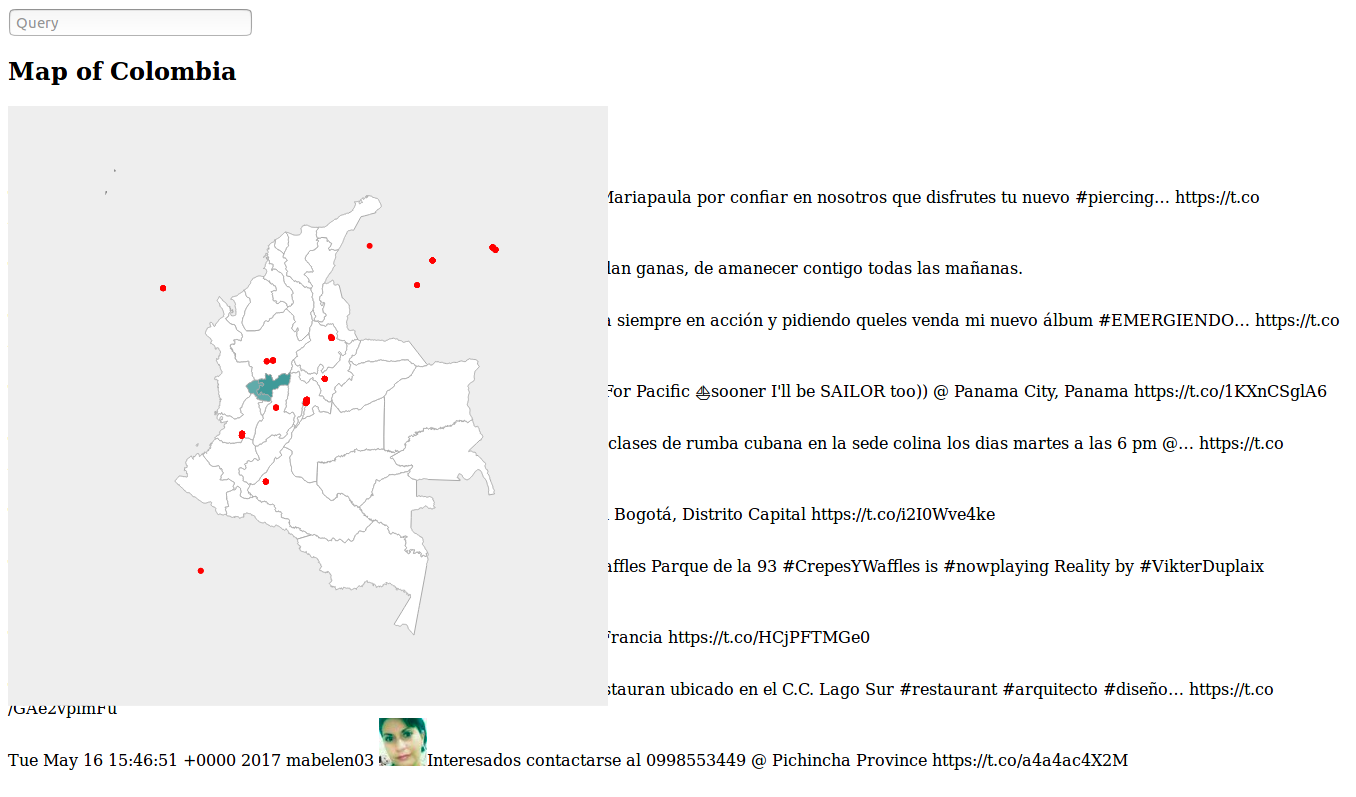
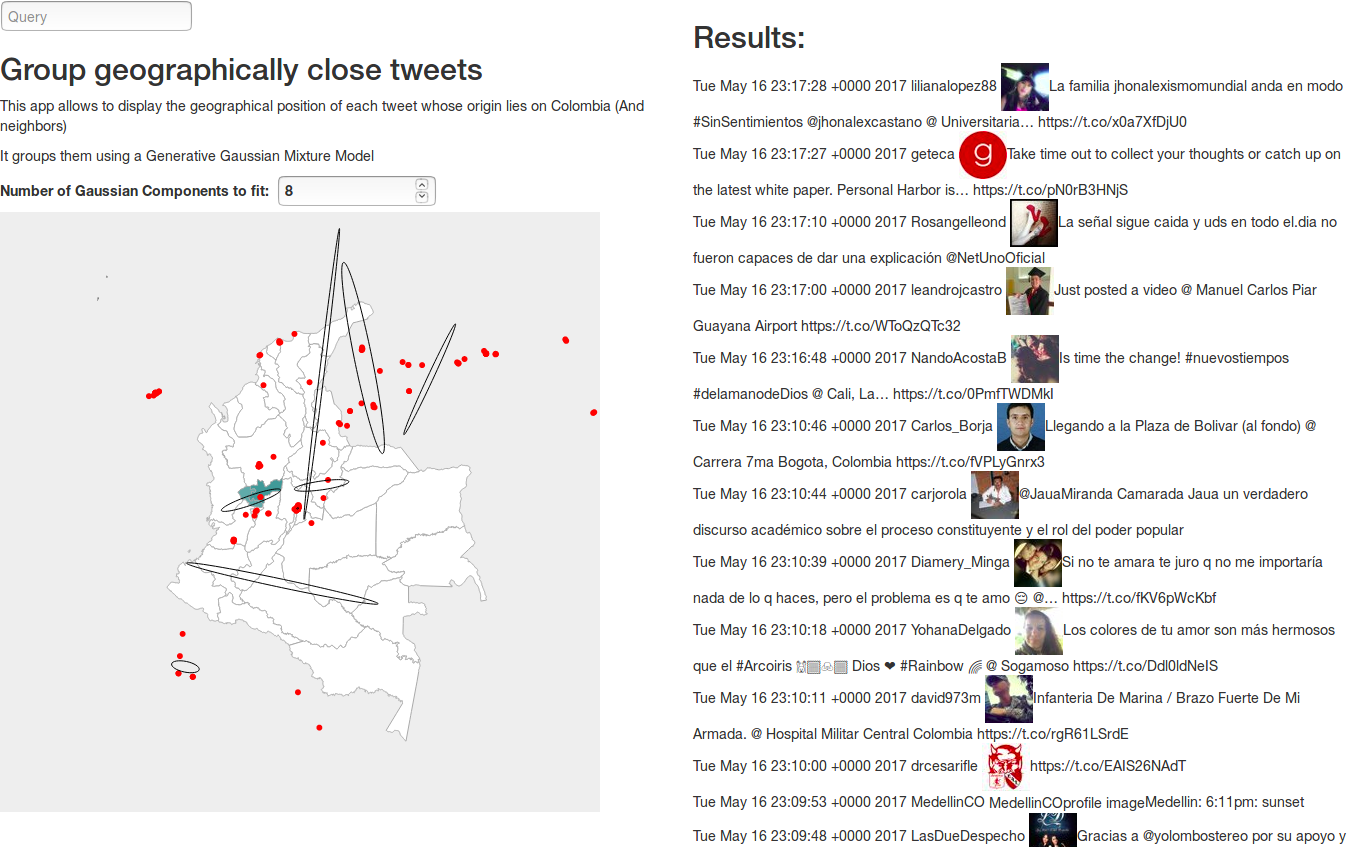
GMM implementation

diff --git a/imports/ui/Overlay.jsx b/imports/ui/Overlay.jsx
@@ -1,7 +1,9 @@
 import React, {Component} from "react";
 import {PropTypes} from "prop-types";
 import { Meteor } from "meteor/meteor";
-import { createContainer} from "meteor/react-meteor-data"
+import { createContainer} from "meteor/react-meteor-data";
+import numeric from 'numeric';
+const expectation_maximization = require('expectation-maximization');
 
 
 export default class Overlay extends Component {
@@ -16,14 +18,63 @@ export default class Overlay extends Component {
     }
 
     componentWillUpdate() {
+        // let expectation_maximization = require('expectation_maximization');
         let ctx = this.canvas.getContext('2d');
+        ctx.save();
+        ctx.setTransform(1, 0, 0, 1, 0, 0);
         ctx.clearRect(0, 0, this.canvas.width, this.canvas.height);
         console.log("What Am I doing?");
+        ctx.restore();
+        // console.log(this.props.mapstat.zoom);
+        // ctx.translate(this.canvas.width/2, this.canvas.height/2);
+        // ctx.scale(this.props.mapstat.zoom, this.props.mapstat.zoom);
+        // ctx.translate(-this.props.mapstat.dx, -this.props.mapstat.dy);
         // console.log(this.props.tweets);
         // console.log(this.props.getProjection());
-        this.props.tweets.map((tweet) => {
-            this.paintPoint(tweet);
-        })
+        let transform = this.props.tweets.map((tweet) => {
+            var t = this.paintPoint(tweet);
+            // console.log(t);
+            return t;
+        });
+        console.log(transform);
+
+        // this.props.tweets.map(function(t) => {
+        //     return t.
+        // })
+
+        // console.log(real_coor);
+
+        // Fits a Gaussian Mixture Model
+        try {
+            console.log(this.props.ngauss);
+            var groups = expectation_maximization(transform, this.props.ngauss());
+            console.log(groups);
+            groups.map((g) => {
+                let center = g.mu;
+                let cov = g.sigma;
+                let eig = numeric.eig(cov);
+                // console.log(eig);
+                // console.log(2*Math.sqrt(Math.abs(eig.lambda.x[0])*5.997));
+                var maj_axis = 2*Math.sqrt(Math.abs(eig.lambda.x[0])*0.211);
+                var min_axis = 2*Math.sqrt(Math.abs(eig.lambda.x[1])*0.211);
+                var vect = eig.lambda[0] > eig.lambda[1] ? eig.E.x[0] : eig.E.x[1];
+                var angle = Math.atan2(vect[1], vect[0]);
+                // console.log(maj_axis);
+                // console.log(min_axis);
+                // console.log(angle);
+                // console.log(center);
+
+                let ctx = this.canvas.getContext('2d');
+                ctx.beginPath();
+                ctx.ellipse(center[0], center[1], maj_axis, min_axis, angle, 0, 2*Math.PI);
+                ctx.stroke();
+
+            });
+        }
+        catch(err)
+        {
+            console.log(err);
+        }
 
     }
 
@@ -32,11 +83,12 @@ export default class Overlay extends Component {
         let coor = tweet.coordinates.coordinates;
         let projFunc = this.props.getProjection();
         let transform = projFunc(coor);
-        console.log(transform);
+        // console.log(transform);
         ctx.beginPath();
         ctx.arc(transform[0], transform[1], 3, 0, Math.PI*2, false);
         ctx.fillStyle = 'red';
         ctx.fill();
+        return transform;
     }
 
     render() {

diff --git a/imports/ui/App.jsx b/imports/ui/App.jsx
@@ -1,19 +1,26 @@
 import React, {Component} from "react";
 import {PropTypes} from "prop-types";
 import { Meteor } from "meteor/meteor";
-import { createContainer} from "meteor/react-meteor-data"
+import { createContainer} from "meteor/react-meteor-data";
 
 import TweetsResults from "./TweetsResults.jsx";
 import {Tweets} from "../api/Tweets.js";
 import ColombiaMap from './ColombiaMap.jsx';
 import Overlay from './Overlay.jsx';
+import ReactSlider from 'react-slider';
+// import ReactBootstrapSlider from 'react-bootstrap-slider';
 
 export class App extends Component {
   constructor(props) {
     super(props);
     this.state = {
         projection: null,
-        zoom: 0
+        mapstat: {
+          dx: 0,
+          dy: 0,
+          zoom: 1
+        },
+        ngauss: 1
     }
 
   }
@@ -38,43 +45,73 @@ export class App extends Component {
     return this.state.projection;
   }
 
-  notifyZoom() {
+  notifyZoom(x, y, k) {
     console.log("Zoom!");
-    this.setState({'zoom':2});
+    console.log(k);
+    this.setState({
+      'mapstat': {
+        'zoom': k,
+        'dx': x,
+        'dy': y
+      },
+      'currentValue': 3,
+      'step': 1,
+      'max': 100,
+      'min': 1
+    });
+  }
+
+  changeValue(val) {
+    console.log(val);
+    this.setState({'ngauss': val});
+  }
+
+  getValue() {
+    return this.state.ngauss;
   }
 
   render() {
     console.log("render!");
     return (
-      <div>
+      <div className='row'>
+      <div className='col-md-6'>
         <input type="text" onKeyPress={this.changeQuery.bind(this)} placeholder="Query"/>
         { this.props && this.props.err ?
           <div>Error: {this.props.err}</div> :
           <span></span>
         }
         <div>
-          <h2>Map of Colombia</h2>
+          <h2>Group geographically close tweets</h2>
+          <p>This app allows to display the geographical position of each tweet whose origin lies on Colombia (And neighbors)</p>
+          <p>It groups them using a Generative Gaussian Mixture Model</p>
+          <label>Number of Gaussian Components to fit: &nbsp;
+          <input onChange={(evt) => {this.changeValue(evt.target.value)}} type="number" name="quantity" min="1" max="100"></input>
+          </label>
           {this.props && this.props.tweets ?
-          <div className='container'>
+          <div className='map-container'>
           <Overlay tweets={this.props.tweets}
                    getProjection={this.getProjection.bind(this)}
-                   zoom={this.props.zoom}></Overlay>
+                   zoom={this.props.zoom}
+                   ngauss={this.getValue.bind(this)}></Overlay>
           <ColombiaMap
             width="600"
             height="600"
             data={{RISARALDA:10, CALDAS:12}}
             setProjection={this.setProjection.bind(this)}
-            notifyZoom={this.notifyZoom.bind(this)}></ColombiaMap>
+            notifyZoom={this.notifyZoom.bind(this)}
+            mapstat={this.state.mapstat}></ColombiaMap>
           </div> : <p>Waiting for tweets...</p>
           }
         </div>
+      </div>
+        <div className='col-md-6'>
         <h2>Results:</h2>
         {this.props && this.props.tweets ?
           <TweetsResults tweets={this.props.tweets}/> :
           <p>Enter a query</p>
         }
-
-      </div>
+        </div>
+        </div>
     );
   }
 }

diff --git a/imports/api/Tweets.js b/imports/api/Tweets.js
@@ -14,7 +14,7 @@ export const Tweets = new Mongo.Collection("tweets");
 // Twitter streamer should run only on the server
 if (Meteor.isServer) {
   Meteor.publish("tweets", function tweetsPublication() {
-    return Tweets.find({}, {sort: {created_at: -1}, limit:10});
+    return Tweets.find({}, {sort: {created_at: -1}, limit:150});
   });
 
   // This method will trigger the streamer

diff --git a/client/main.html b/client/main.html
@@ -1,4 +1,7 @@
 <head>
+<link rel="stylesheet" href="https://maxcdn.bootstrapcdn.com/bootstrap/latest/css/bootstrap.min.css">
+<link rel="stylesheet" href="https://bootswatch.com/sandstone/bootstrap.min.css">
+<link rel="stylesheet" href="//maxcdn.bootstrapcdn.com/bootstrap/3.3.7/css/bootstrap.min.css" />
   <title>Twitter streamer</title>
 </head>
 

diff --git a/imports/ui/ColombiaMap.jsx b/imports/ui/ColombiaMap.jsx
@@ -126,7 +126,7 @@ export default class ColombiaMap extends Component {
 		  g.transition()
 		    .duration(750)
 		    .attr('transform', 'translate(' + width / 2 + ',' + height / 2 + ')scale(' + k + ')translate(' + -x + ',' + -y + ')');
-		  that.props.notifyZoom();
+		  that.props.notifyZoom(x, y, k);
 		}
 
 		function mouseover(d){

diff --git a/client/main.css b/client/main.css
@@ -8,7 +8,7 @@
   background-color:rgba(255,0,0,0.5);
 }
 */
-.container {
+.map-container {
   margin: 0 auto;
   position: relative;
 }

diff --git a/README.md b/README.md
@@ -1,5 +1,5 @@
 # tweeter-geostreamer
-Live map that displays each tweet in a map according to its geographical origin.
+Live map that displays each tweet in a map according to its geographical origin. It also allows to group all the tweet geographical origin locations by fitting a Gaussian Mixture Model.
 
 ## Deployment
 To deploy this project, you must have Meteor installed, you must create and define your own Twitter API keys. After completing this steps, you can define a bash/batch script that executes the following instructions:
